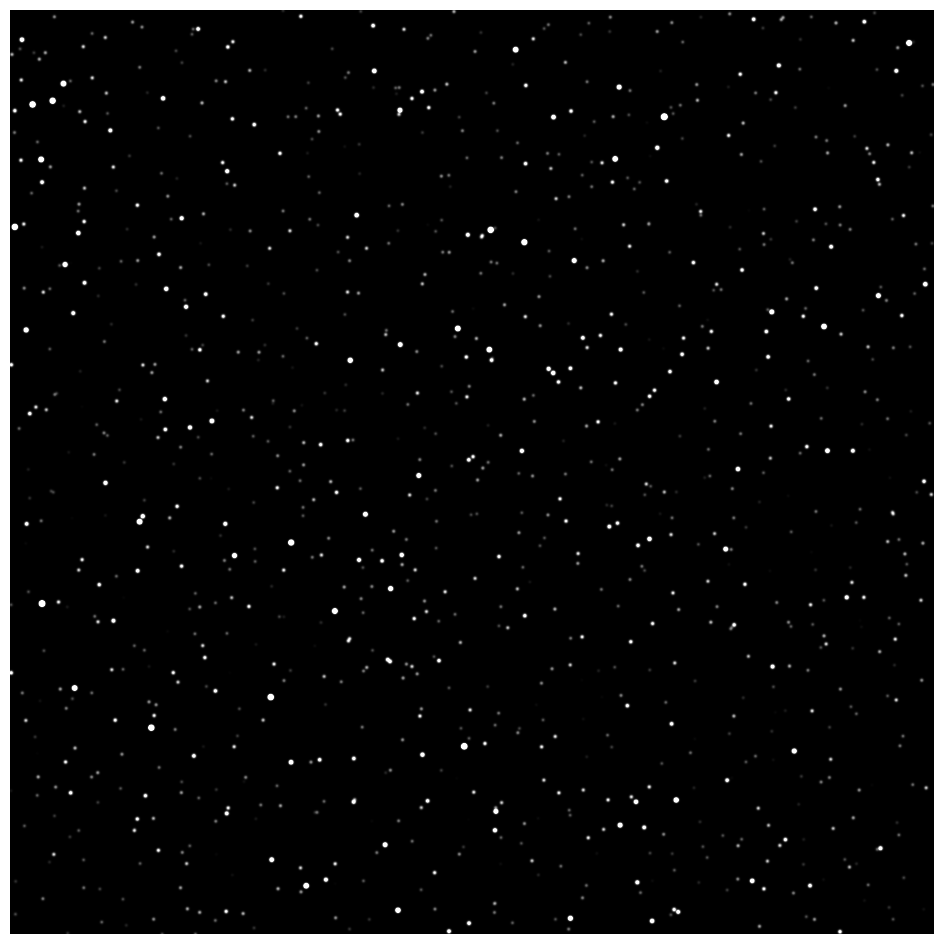
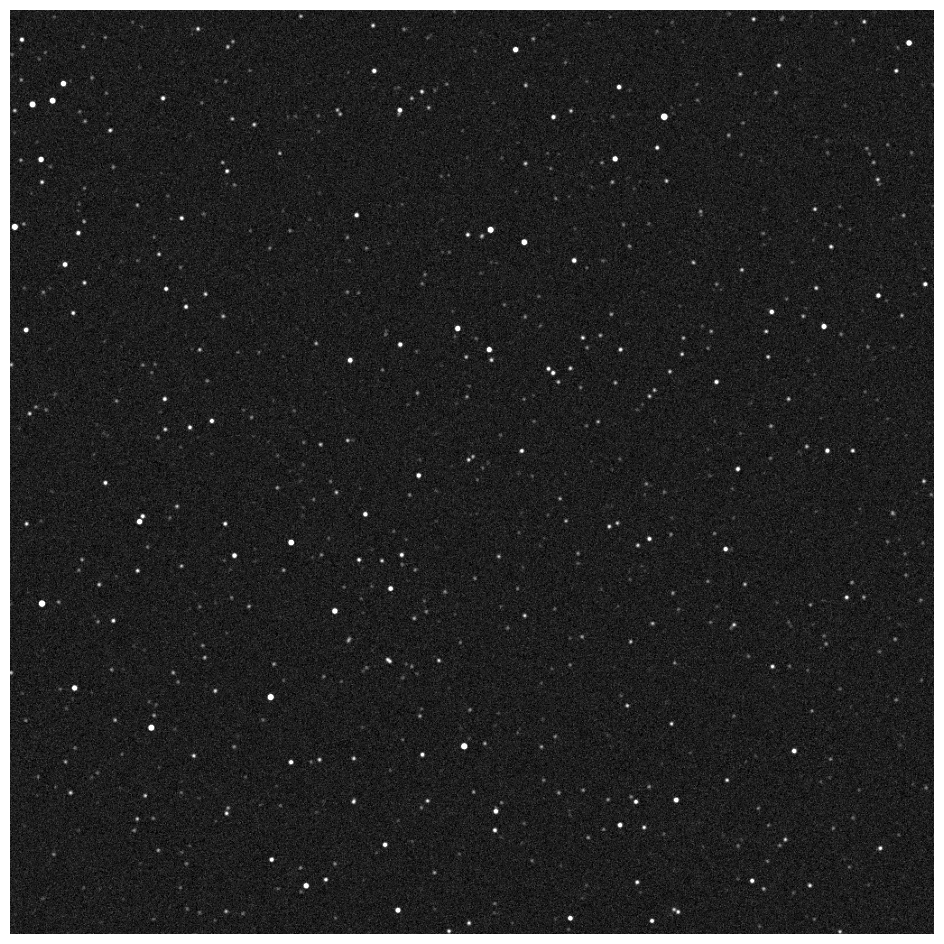
updates noise and scaling

diff --git a/content/en/posts/making-stars.md b/content/en/posts/making-stars.md
@@ -290,8 +290,8 @@ img, stars = simulate_star_image(
     shape, 
     fwhm=3, 
     dimmest_magnitude=12, 
-    noise_mean=None, 
-    noise_std=None)
+    noise_mean=10, 
+    noise_std=5)
 ```
 
 And visualize it.
@@ -301,7 +301,7 @@ fig, ax = plt.subplots()
 ax.imshow(
     img, 
     vmin=0, 
-    vmax=50, 
+    vmax=100, 
     cmap='Greys_r'
     )
 ax.set_axis_off()
